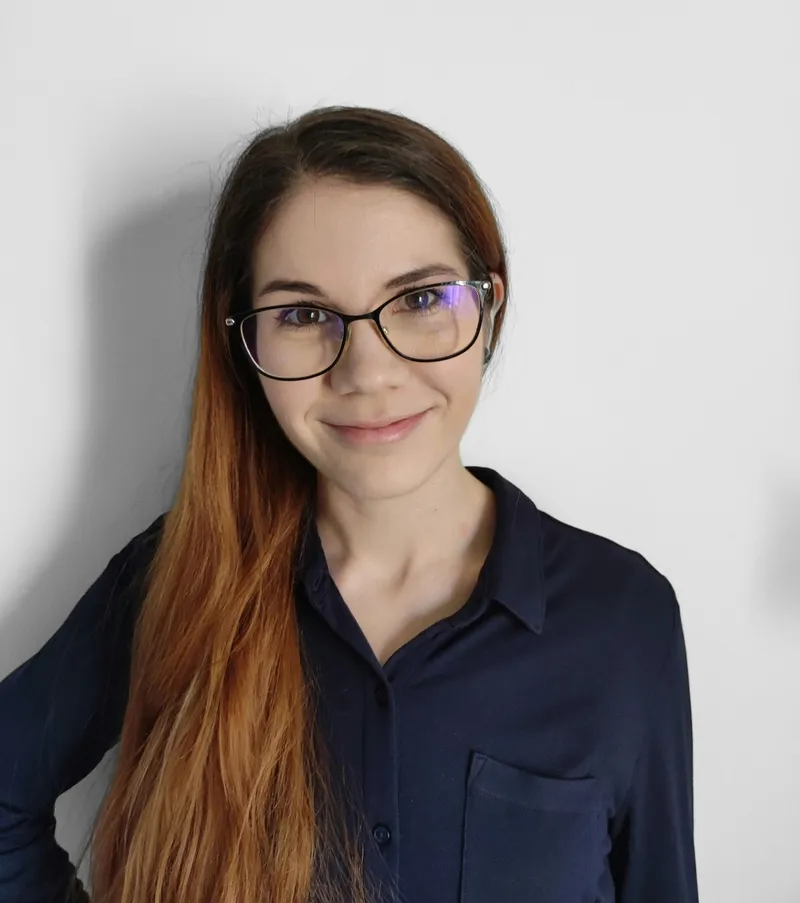
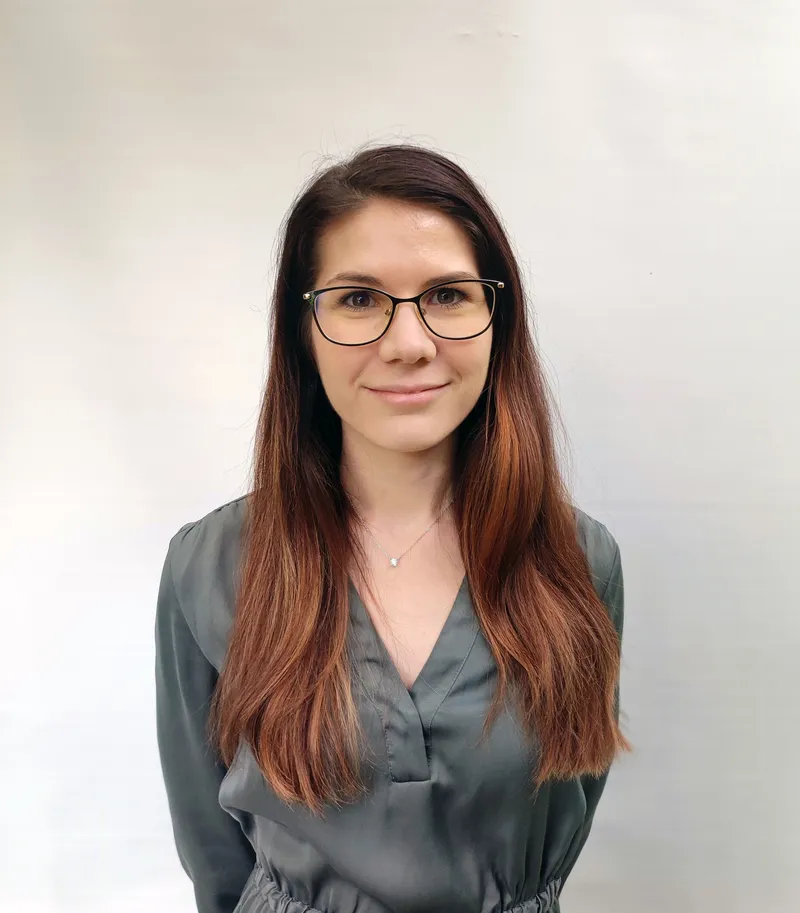
Studies bold, about-me text change, new profile pics

diff --git a/index.html b/index.html
@@ -68,17 +68,18 @@
                         <h2>Rólam</h2>
                         <hr />
                         <p>
-                            Tatár Blanka vagyok, pszichológus, képzésben lévő művészet-és szocioterapeuta. Diplomám megszerzése óta több intézményben is dolgoztam: iskolában, óvodában, valamint nevelési tanácsadásban. 
+                            Tatár Blanka vagyok, pszichológus, képzésben lévő művészet-és szocioterapeuta.
                         </p>
                         <p>
                             <i>Személyközpontú</i> szemléletmód jellemez, de az <i>egzisztenciális pszichológia</i> is fontos részét képezi munkámnak. Egyetértek azzal, hogy a testi-pszichés-lelki egészségünk szorosan összefonódik. A testünk mindig jelez valamilyen úton-módon, ha valami nem megfelelő számunkra: legyenek azok traumatikus, múltbeli események, vagy akár jelenkori kibillenések. Saját önismereti munkám során is megtapasztaltam a szomatikus módszerek, a művészetterápiák, valamint a TRE (Trauma Release Exercise) erejét. Pszichológusi munkám mellett <i>Hatha és Yin jógaoktató</i> is vagyok.
                         </p>
 
                         <p>
-                            A munkám során <b>komplex művészetterápiás eszközökkel</b> (képzőművészet, zene, irodalom, mozgásterápia), valamint relaxációs, mindfulness alapú és kognitív iselkedésterápiás elemekkel dolgozom. 
+                            A munkám során <b>komplex művészetterápiás eszközökkel</b> (képzőművészet, zene, irodalom, mozgásterápia), valamint relaxációs, mindfulness alapú és kognitív viselkedésterápiás elemekkel dolgozom. 
                         </p>
 
                         <p>
+                            Diplomám megszerzése óta több intézményben is dolgoztam: iskolában, óvodában, valamint nevelési tanácsadásban.
                             Tapasztalatom van <i>neurodiverz</i> (ADHD, autizmus, szenzorosság...) gyerekekkel és kamaszokkal.
                         </p>
                         <p>
@@ -87,7 +88,7 @@
                         <p>
                             Kedvelt témáim közé tartozik a stresszkezelés, a kötődés-párkapcsolat, a testkép-énkép, egészséges életmód.
                         </p>
-                </div>
+                    </div>
             </section>
 
 <!-- Services section -->
@@ -124,20 +125,20 @@
                         <hr />
                         <p>
                             <ul>
-                                <li>2022-2025: Komplex Művészet-és Szocioterapeuta Képzés: MMSZKE</li>
-                                <li>2018-2020: Pszichológia MA: Szegedi Tudományegyetem, iskolapszichológia-és tanácsadás
+                                <li><b>2022-2025:</b> Komplex Művészet-és Szocioterapeuta Képzés: MMSZKE</li>
+                                <li><b>2018-2020:</b> Pszichológia MA: Szegedi Tudományegyetem, iskolapszichológia-és tanácsadás
                                     szakirány</li>
-                                <li>2014-2017: Pszichológia BA: Babes-Bolyai Tudományegyetem, Kolozsvár</li>
-                                <li>2014-2017: Pszichopedagógia: Babes-Bolyai Tudományegyetem, Kolozsvár</li>
+                                <li><b>2014-2017:</b> Pszichológia BA: Babes-Bolyai Tudományegyetem, Kolozsvár</li>
+                                <li><b>2014-2017:</b> Pszichopedagógia: Babes-Bolyai Tudományegyetem, Kolozsvár</li>
                             </ul>
                         </p>
                         <h2>Egyéb tanulmányaim</h2>
                         <hr />
                         <p>
                             <ul>
-                                <li>2024: Yin jógaoktatói képzés</li>
-                                <li>2023: ENABLE - Az iskolai bántalmazás megelőzése és kezelése</li>
-                                <li>2022-2023: Hatha jógaoktatói képzés</li>
+                                <li><b>2024:</b> Yin jógaoktatói képzés</li>
+                                <li><b>2023:</b> ENABLE - Az iskolai bántalmazás megelőzése és kezelése</li>
+                                <li><b>2022-2023:</b> Hatha jógaoktatói képzés</li>
                             </ul>
                         </p>
                     </div>
